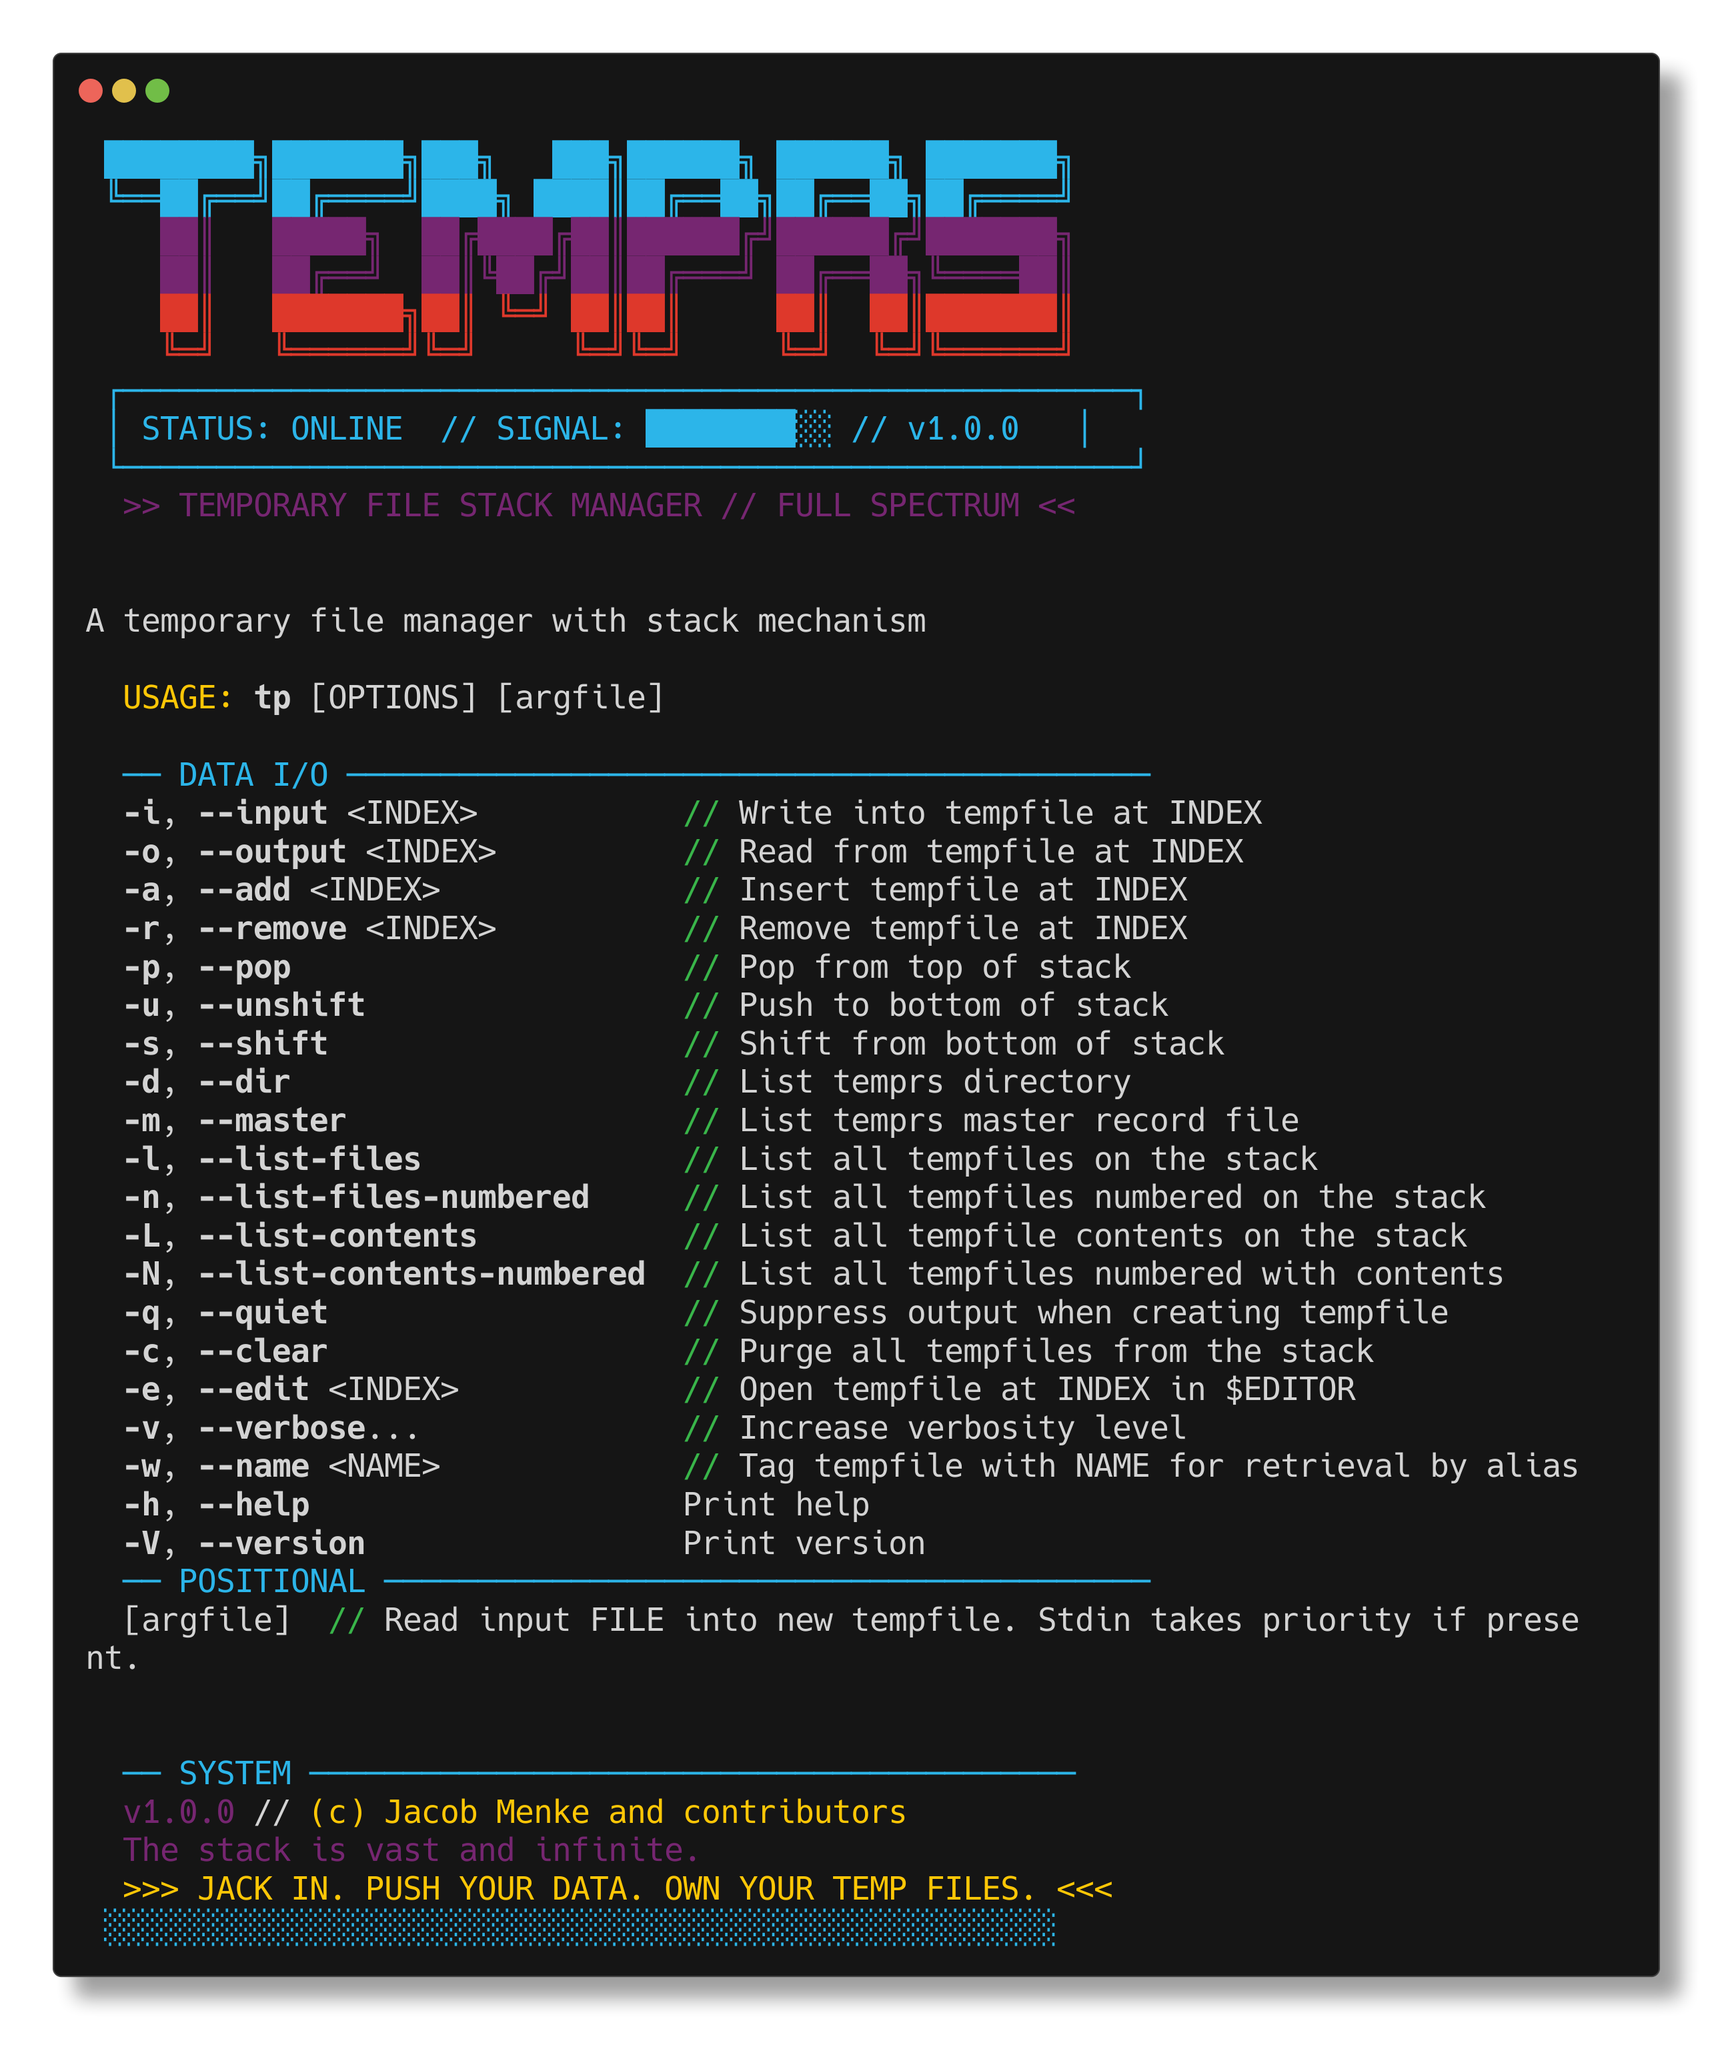
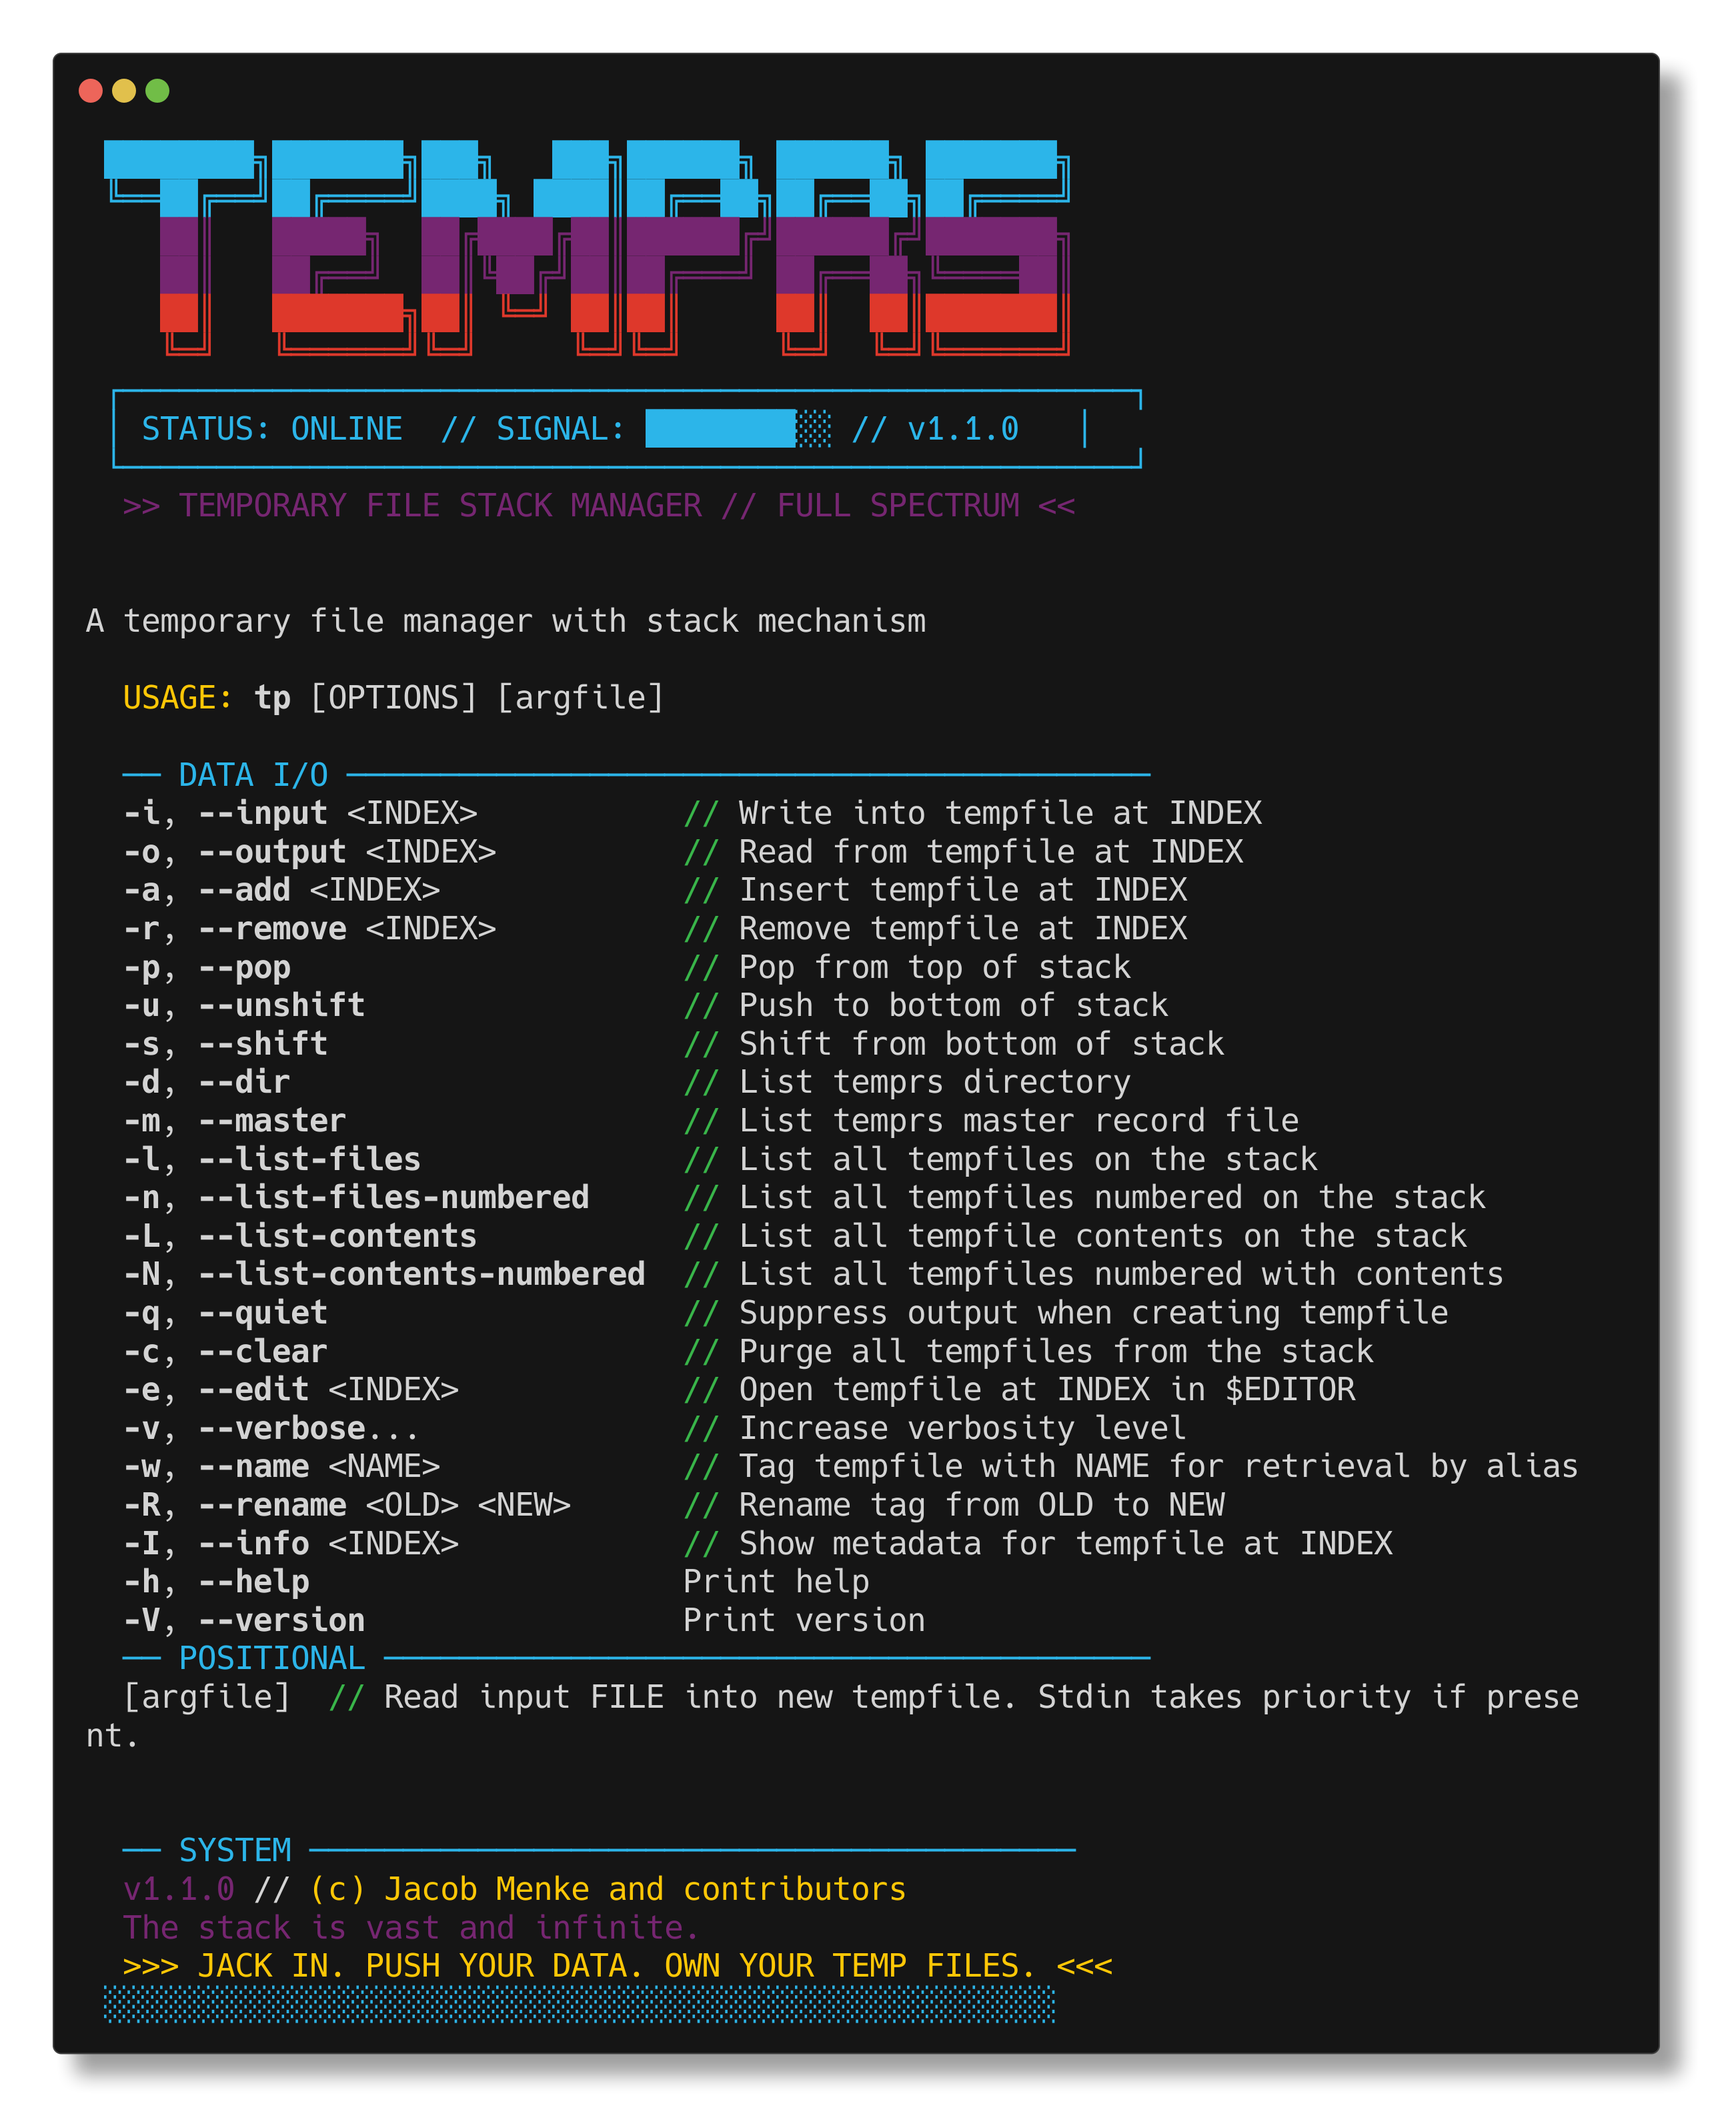
add rename tag (-R) and info (-I) flags, bump version to 1.1.0

diff --git a/src/model/app.rs b/src/model/app.rs
@@ -343,6 +343,13 @@ impl TempApp {
         if let Some(f) = matches.get_one::<String>(EDIT) {
             self.edit_tempfile(f.clone());
         }
+        if let Some(f) = matches.get_one::<String>(INFO) {
+            self.info_tempfile(f.clone());
+        }
+        if let Some(vals) = matches.get_many::<String>(RENAME) {
+            let v: Vec<String> = vals.cloned().collect();
+            self.rename_tag(v[0].clone(), v[1].clone());
+        }
         if let Some(f) = matches.get_one::<String>(REMOVE) {
             self.remove_at_idx(f.clone());
         }
@@ -438,6 +445,66 @@ impl TempApp {
             util_terminate_error(ERR_NO_FILE);
         }
         exit(0)
+    }
+
+    fn info_tempfile(&mut self, stk_idx: String) {
+        match self.resolve_idx(&stk_idx) {
+            Some(idx) => {
+                let path = self.state().temp_file_stack()[idx].clone();
+                let name = self.state().temp_file_names()[idx].clone();
+                let meta = fs::metadata(&path).expect(ERR_FILE_READ);
+                let size = meta.len();
+                let modified = meta.modified().ok().and_then(|t| {
+                    t.duration_since(std::time::UNIX_EPOCH).ok()
+                }).map(|d| d.as_secs()).unwrap_or(0);
+
+                let size_str = if size < 1024 {
+                    format!("{} B", size)
+                } else if size < 1024 * 1024 {
+                    format!("{:.1} KiB", size as f64 / 1024.0)
+                } else {
+                    format!("{:.1} MiB", size as f64 / (1024.0 * 1024.0))
+                };
+
+                if io::stdout().is_terminal() {
+                    cyber_hr();
+                    println!("\x1b[33m  index:\x1b[0m  {}", idx + 1);
+                    if let Some(ref n) = name {
+                        println!("\x1b[33m  name:\x1b[0m   \x1b[35m@{}\x1b[0m", n);
+                    }
+                    println!("\x1b[33m  path:\x1b[0m   \x1b[35m{}\x1b[0m", path.display());
+                    println!("\x1b[33m  size:\x1b[0m   {}", size_str);
+                    println!("\x1b[33m  mtime:\x1b[0m  {}", modified);
+                    cyber_hr();
+                } else {
+                    println!("index: {}", idx + 1);
+                    if let Some(ref n) = name {
+                        println!("name: {}", n);
+                    }
+                    println!("path: {}", path.display());
+                    println!("size: {}", size_str);
+                    println!("mtime: {}", modified);
+                }
+                exit(0)
+            }
+            None => util_terminate_error(ERR_INVALID_IDX),
+        }
+    }
+
+    fn rename_tag(&mut self, old: String, new: String) {
+        if self.state().temp_file_names().iter().any(|n| n.as_deref() == Some(&new)) {
+            util_terminate_error(ERR_INVALID_NAME);
+        }
+        match self.resolve_idx(&old) {
+            Some(idx) => {
+                let mut names = self.state().temp_file_names().clone();
+                names[idx] = Some(new);
+                let paths = self.state().temp_file_stack().clone();
+                util_paths_and_names_to_file(paths, &names, self.state().master_record_file());
+                exit(0)
+            }
+            None => util_terminate_error(ERR_INVALID_IDX),
+        }
     }
 
     fn edit_tempfile(&mut self, stk_idx: String) {

diff --git a/src/util/consts.rs b/src/util/consts.rs
@@ -33,6 +33,8 @@ pub const SHIFT: &str = "shift";
 pub const SILENT: &str = "silent";
 pub const EDIT: &str = "edit";
 pub const TAG: &str = "name";
+pub const RENAME: &str = "rename";
+pub const INFO: &str = "info";
 pub const ERR_INVALID_NAME: &str = "Invalid or duplicate name";
 pub const ERR_EDITOR: &str = "Could not open editor";
 
@@ -117,7 +119,7 @@ mod tests {
         let flags = vec![
             DIRECTORY, INPUT, OUTPUT, ADD, REMOVE, POP, UNSHIFT,
             ARGFILE, MASTER, VERBOSE, LIST_FILES, LIST_FILES_NUMBERED,
-            LIST_CONTENTS, LIST_CONTENTS_NUMBERED, CLEAR, SHIFT, SILENT, EDIT, TAG,
+            LIST_CONTENTS, LIST_CONTENTS_NUMBERED, CLEAR, SHIFT, SILENT, EDIT, TAG, RENAME, INFO,
         ];
         let mut sorted = flags.clone();
         sorted.sort();
@@ -130,7 +132,7 @@ mod tests {
         let flags = vec![
             DIRECTORY, INPUT, OUTPUT, ADD, REMOVE, POP, UNSHIFT,
             ARGFILE, MASTER, VERBOSE, LIST_FILES, LIST_FILES_NUMBERED,
-            LIST_CONTENTS, LIST_CONTENTS_NUMBERED, CLEAR, SHIFT, SILENT, EDIT, TAG,
+            LIST_CONTENTS, LIST_CONTENTS_NUMBERED, CLEAR, SHIFT, SILENT, EDIT, TAG, RENAME, INFO,
         ];
         for f in flags {
             assert_eq!(f, f.to_lowercase(), "flag '{}' should be lowercase", f);
@@ -349,7 +351,7 @@ mod tests {
         let flags = vec![
             DIRECTORY, INPUT, OUTPUT, ADD, REMOVE, POP, UNSHIFT,
             ARGFILE, MASTER, VERBOSE, LIST_FILES, LIST_FILES_NUMBERED,
-            LIST_CONTENTS, LIST_CONTENTS_NUMBERED, CLEAR, SHIFT, SILENT, EDIT, TAG,
+            LIST_CONTENTS, LIST_CONTENTS_NUMBERED, CLEAR, SHIFT, SILENT, EDIT, TAG, RENAME, INFO,
         ];
         for f in flags {
             assert!(!f.contains(' '), "flag '{}' should not contain spaces", f);
@@ -363,7 +365,7 @@ mod tests {
         let flags = vec![
             DIRECTORY, INPUT, OUTPUT, ADD, REMOVE, POP, UNSHIFT,
             ARGFILE, MASTER, VERBOSE, LIST_FILES, LIST_FILES_NUMBERED,
-            LIST_CONTENTS, LIST_CONTENTS_NUMBERED, CLEAR, SHIFT, SILENT, EDIT, TAG,
+            LIST_CONTENTS, LIST_CONTENTS_NUMBERED, CLEAR, SHIFT, SILENT, EDIT, TAG, RENAME, INFO,
         ];
         for f in flags {
             assert!(!f.is_empty(), "flag constant should not be empty");
@@ -377,7 +379,7 @@ mod tests {
         let flags = vec![
             DIRECTORY, INPUT, OUTPUT, ADD, REMOVE, POP, UNSHIFT,
             ARGFILE, MASTER, VERBOSE, LIST_FILES, LIST_FILES_NUMBERED,
-            LIST_CONTENTS, LIST_CONTENTS_NUMBERED, CLEAR, SHIFT, SILENT, EDIT, TAG,
+            LIST_CONTENTS, LIST_CONTENTS_NUMBERED, CLEAR, SHIFT, SILENT, EDIT, TAG, RENAME, INFO,
         ];
         for f in flags {
             assert!(f.is_ascii(), "flag '{}' should be ASCII", f);
@@ -391,9 +393,9 @@ mod tests {
         let flags = vec![
             DIRECTORY, INPUT, OUTPUT, ADD, REMOVE, POP, UNSHIFT,
             ARGFILE, MASTER, VERBOSE, LIST_FILES, LIST_FILES_NUMBERED,
-            LIST_CONTENTS, LIST_CONTENTS_NUMBERED, CLEAR, SHIFT, SILENT, EDIT, TAG,
+            LIST_CONTENTS, LIST_CONTENTS_NUMBERED, CLEAR, SHIFT, SILENT, EDIT, TAG, RENAME, INFO,
         ];
-        assert_eq!(flags.len(), 19);
+        assert_eq!(flags.len(), 21);
     }
 
     // ── naming conventions ──────────────────────────────

diff --git a/src/model/opts.rs b/src/model/opts.rs
@@ -139,6 +139,18 @@ pub fn parse_opts() -> Command {
             .long("name")
             .value_name("NAME")
             .help("\x1b[32m//\x1b[0m Tag tempfile with NAME for retrieval by alias"))
+        .arg(Arg::new(RENAME)
+            .short('R')
+            .long("rename")
+            .value_names(["OLD", "NEW"])
+            .num_args(2)
+            .help("\x1b[32m//\x1b[0m Rename tag from OLD to NEW"))
+        .arg(Arg::new(INFO)
+            .short('I')
+            .long("info")
+            .value_name("INDEX")
+            .allow_hyphen_values(true)
+            .help("\x1b[32m//\x1b[0m Show metadata for tempfile at INDEX"))
 }
 
 #[cfg(test)]
@@ -544,7 +556,7 @@ mod tests {
         let custom_count = app.get_arguments()
             .filter(|a| a.get_id() != "help" && a.get_id() != "version")
             .count();
-        assert_eq!(custom_count, 19);
+        assert_eq!(custom_count, 21);
     }
 
     // ── flag mutual independence ────────────────────────

diff --git a/README.md b/README.md
@@ -174,6 +174,20 @@ tp -o mydata | CMD
 
 # remove by name
 tp -r mydata
+
+# rename a tag
+tp -R mydata newname
+
+# rename by index
+tp -R 1 newname
+```
+
+#### INSPECTING TEMPFILES // METADATA
+
+```sh
+# show metadata for tempfile by name or index
+tp -I mydata
+tp -I 1
 ```
 
 #### STACK MANIPULATION // PUSH / POP / SHIFT
